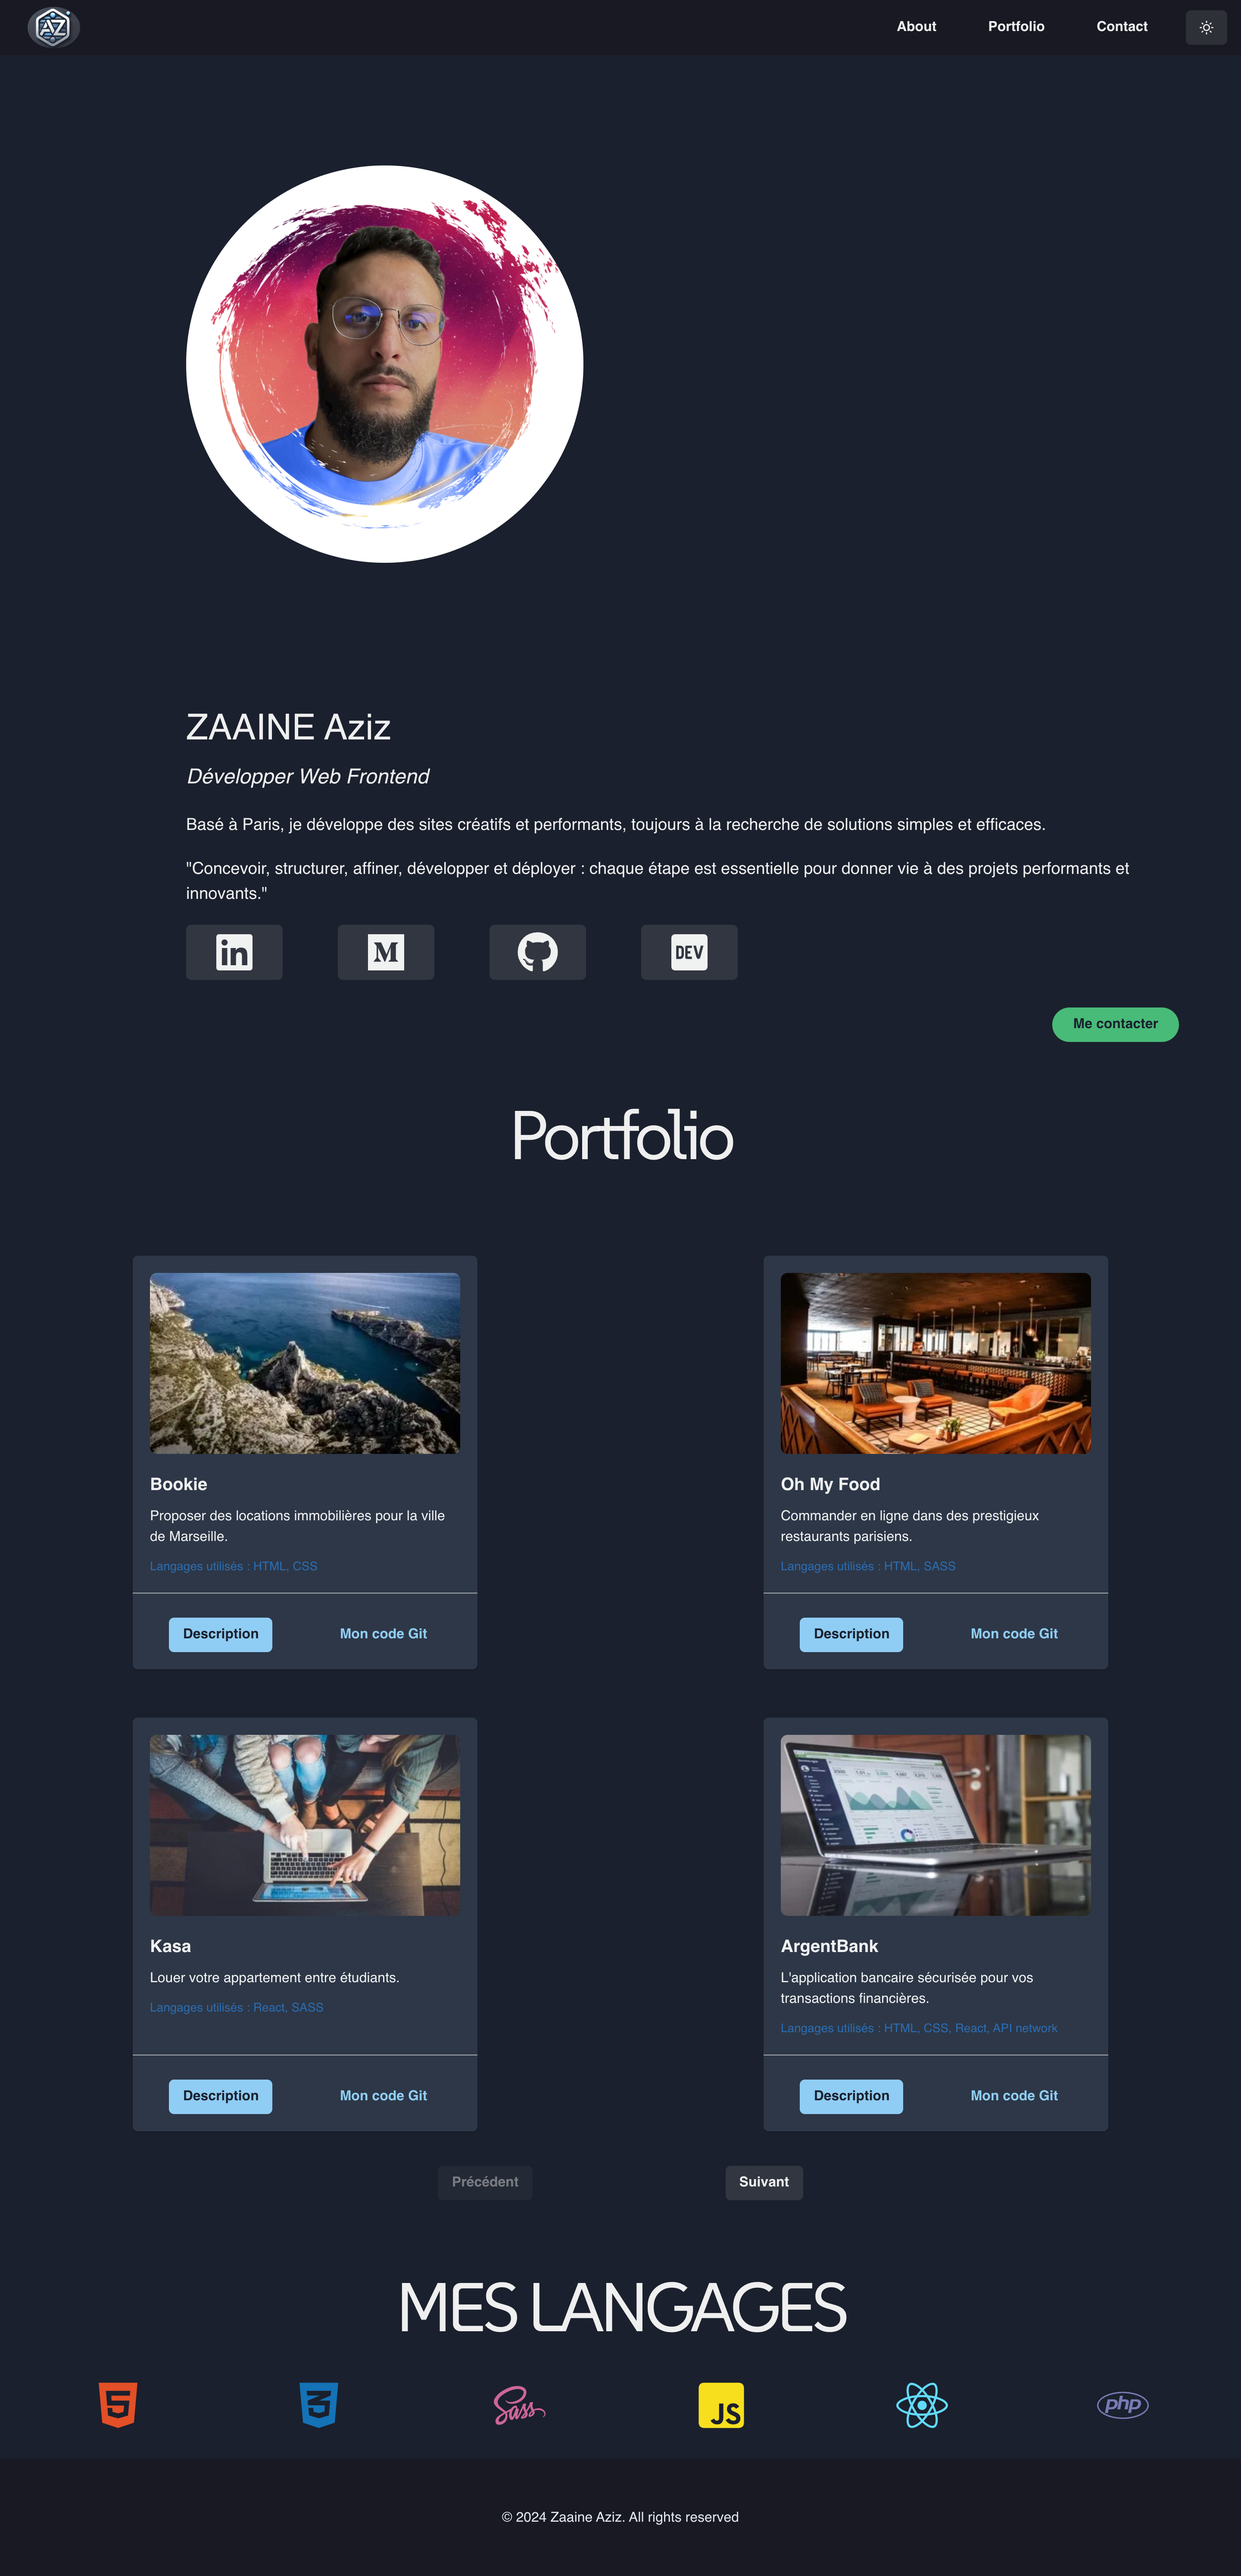
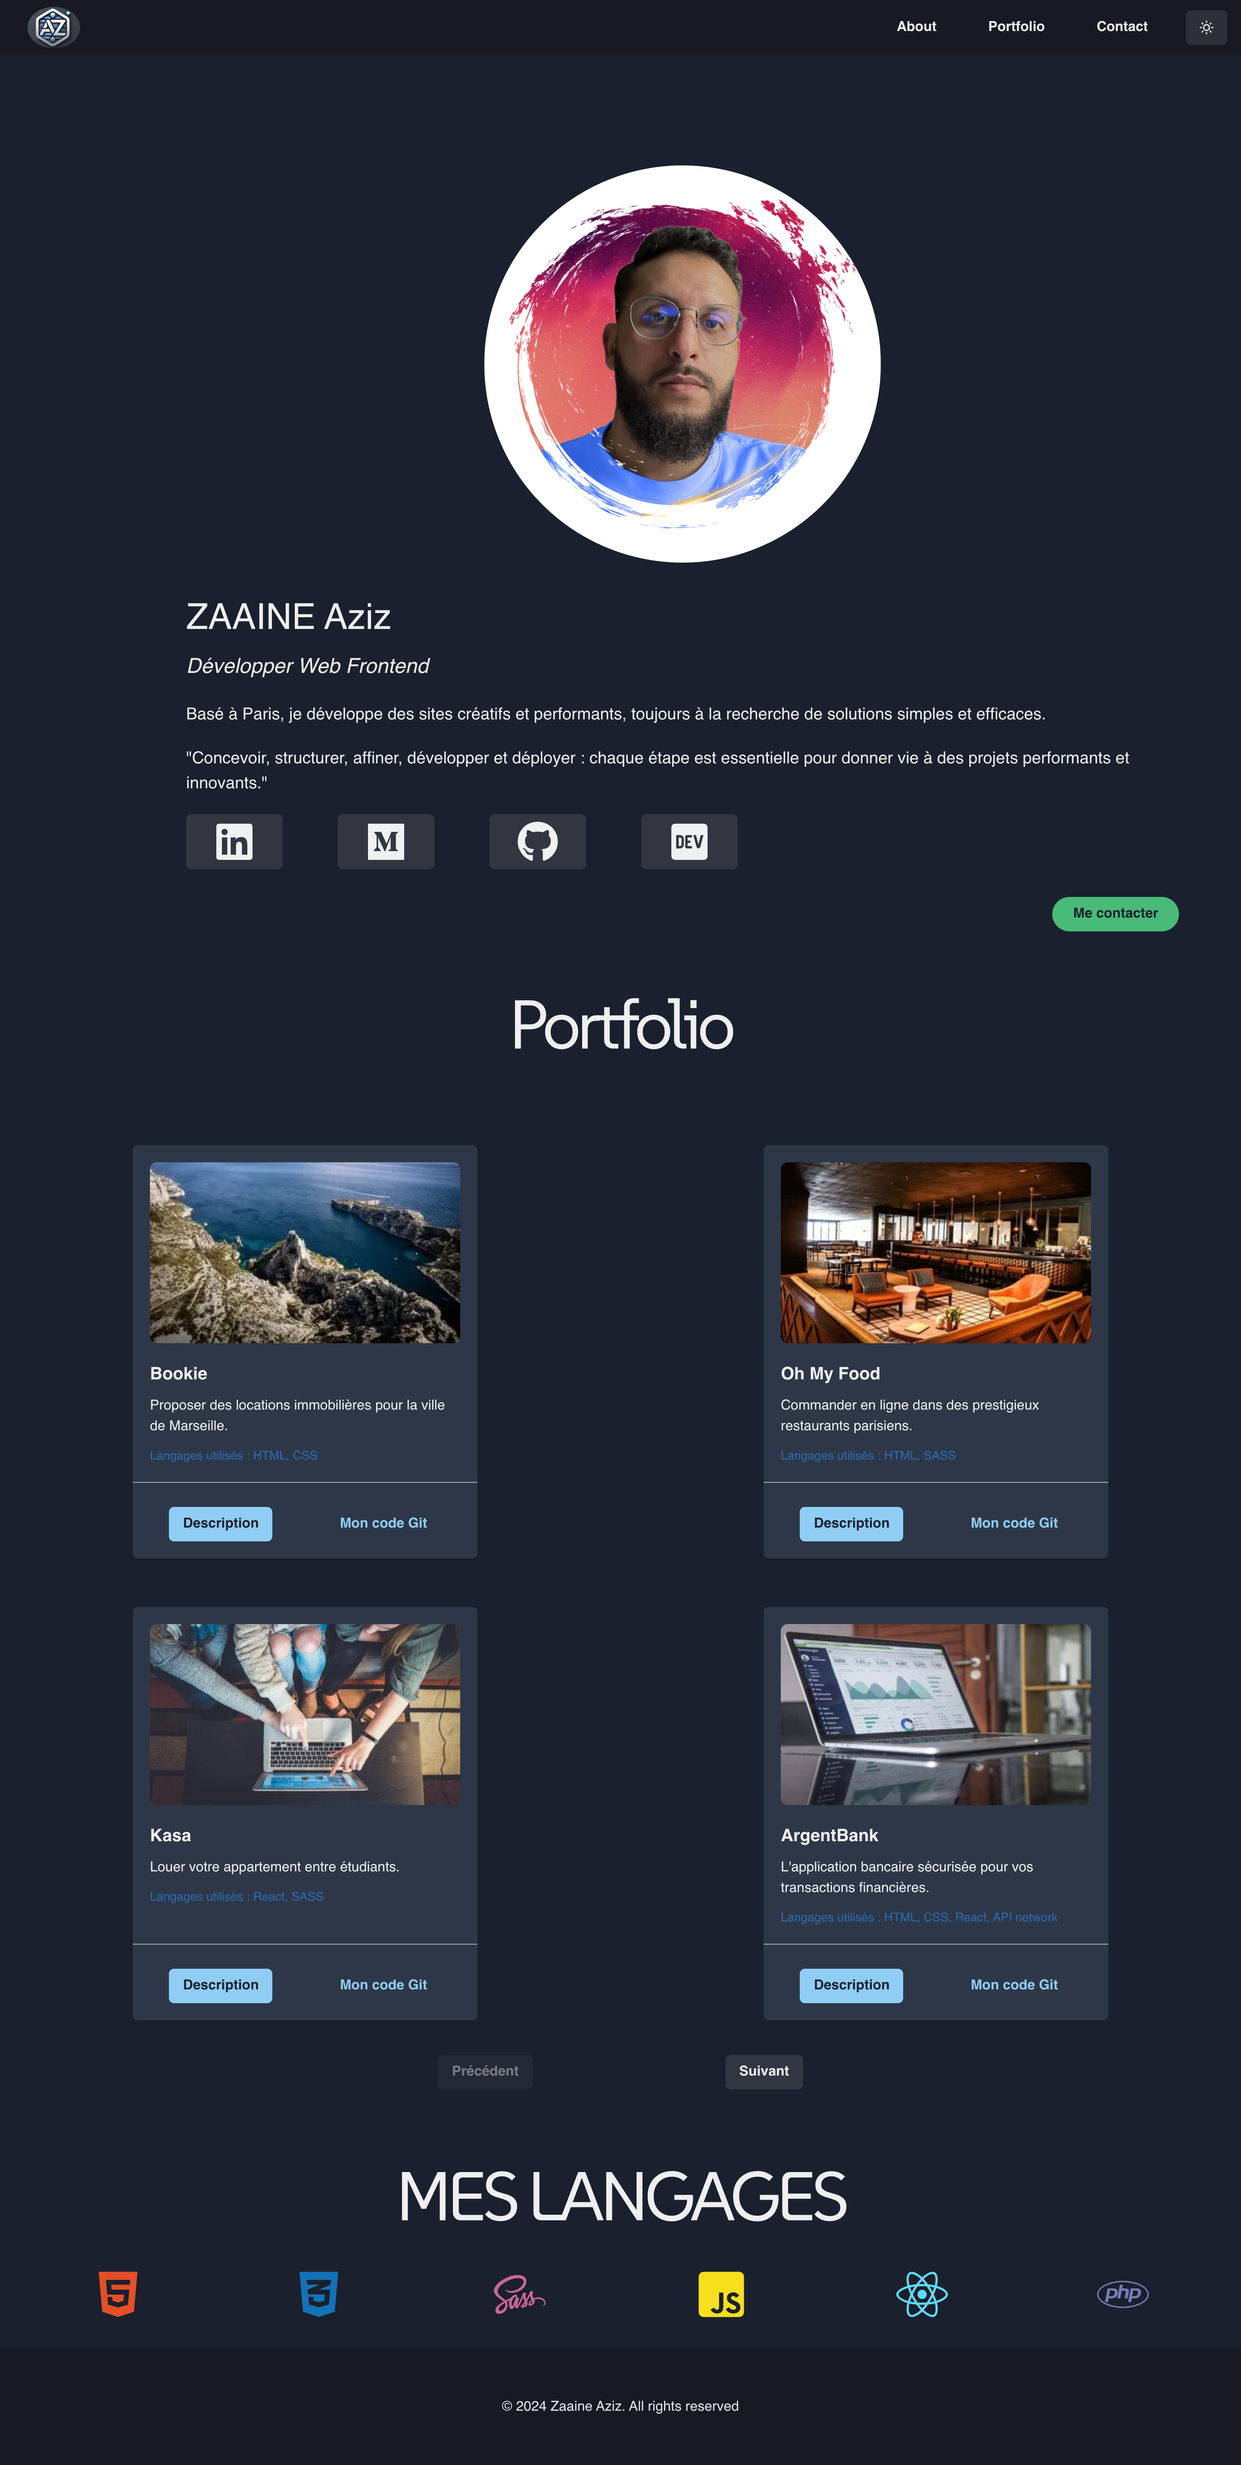
ajout et correction de styles

diff --git a/Frontend/src/styles/_components.scss/Hero.scss b/Frontend/src/styles/_components.scss/Hero.scss
@@ -5,13 +5,13 @@
   flex-direction: row;
   flex-wrap: wrap;
   align-content: center;
-  justify-content: space-between;
+  justify-content: center;
   align-items: flex-start;
   margin-top: 10rem;
   margin-left: 15%;
   height: auto;
   width: 80%;
-  gap: 12rem;
+  gap: 4rem;
 
   .hero_image {
     border-radius: 50%;
